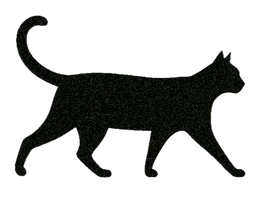
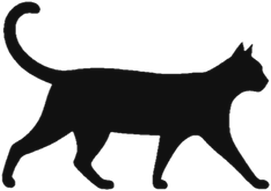
Silhouettes de chats refaites à partir des sources nettes (étape intermédiaire)
Claude-Session: https://claude.ai/code/session_01SBniN9QcJnc3Njnz1cARzX

diff --git a/es/interaction-ecrite.html b/es/interaction-ecrite.html
@@ -59,7 +59,7 @@
 <h1>Interacción escrita</h1>
 <p class="lead">Una destreza difícil de practicar en clase y valiosa en los cursos híbridos o 100 % en línea, donde la IAG ofrece un interlocutor siempre disponible.</p>
 </div>
-<div class="s-art" aria-hidden="true"><img src="../img/p3_90.webp" alt="" width="271" height="204" aria-hidden="true"></div></div></div>
+<div class="s-art" aria-hidden="true"><img src="../img/p3_90.webp" alt="" width="271" height="191" aria-hidden="true"></div></div></div>
 <div class="wrap layout">
 <aside class="toc" aria-label="En esta página"><details open><summary>En esta página</summary><h2>En esta página</h2><ol><li><a href="#cadre">Objetivo y qué hace el o la estudiante</a></li><li><a href="#principe">Principio</a></li><li><a href="#activites">Actividades</a></li><li><a href="#observe">Lo que observamos</a></li><li><a href="#limites">Límites</a></li><li><a href="#pistes">Líneas que exploramos</a></li><li><a href="#demo-defi">Demo y reto</a></li></ol>
 <div class="fold-all"><button type="button" class="btn small ghost" data-fold="open">Desplegar todo</button><button type="button" class="btn small ghost" data-fold="close">Plegar todo</button></div></details></aside>

diff --git a/en/interaction-ecrite.html b/en/interaction-ecrite.html
@@ -59,7 +59,7 @@
 <h1>Written interaction</h1>
 <p class="lead">A skill that is hard to practise in class, and valuable in blended or 100% online courses, where GenAI offers an always-available conversation partner.</p>
 </div>
-<div class="s-art" aria-hidden="true"><img src="../img/p3_90.webp" alt="" width="271" height="204" aria-hidden="true"></div></div></div>
+<div class="s-art" aria-hidden="true"><img src="../img/p3_90.webp" alt="" width="271" height="191" aria-hidden="true"></div></div></div>
 <div class="wrap layout">
 <aside class="toc" aria-label="On this page"><details open><summary>On this page</summary><h2>On this page</h2><ol><li><a href="#cadre">Objective and what the student does</a></li><li><a href="#principe">Principle</a></li><li><a href="#activites">Activities</a></li><li><a href="#observe">What we observe</a></li><li><a href="#limites">Limitations</a></li><li><a href="#pistes">Avenues we are exploring</a></li><li><a href="#demo-defi">Demo and challenge</a></li></ol>
 <div class="fold-all"><button type="button" class="btn small ghost" data-fold="open">Expand all</button><button type="button" class="btn small ghost" data-fold="close">Collapse all</button></div></details></aside>

diff --git a/interaction-ecrite.html b/interaction-ecrite.html
@@ -59,7 +59,7 @@
 <h1>Interaction écrite</h1>
 <p class="lead">Une compétence difficile à entraîner en classe, et précieuse dans les cours hybrides ou 100 % en ligne, où l’IAG offre un partenaire d’échange permanent.</p>
 </div>
-<div class="s-art" aria-hidden="true"><img src="img/p3_90.webp" alt="" width="271" height="204" aria-hidden="true"></div></div></div>
+<div class="s-art" aria-hidden="true"><img src="img/p3_90.webp" alt="" width="271" height="191" aria-hidden="true"></div></div></div>
 <div class="wrap layout">
 <aside class="toc" aria-label="Sur cette page"><details open><summary>Sur cette page</summary><h2>Sur cette page</h2><ol><li><a href="#cadre">Objectif et action de l’étudiant·e</a></li><li><a href="#principe">Principe</a></li><li><a href="#activites">Activités</a></li><li><a href="#observe">Ce qu’on observe</a></li><li><a href="#limites">Limites</a></li><li><a href="#pistes">Nos pistes</a></li><li><a href="#demo-defi">Démo et défi</a></li></ol>
 <div class="fold-all"><button type="button" class="btn small ghost" data-fold="open">Tout déplier</button><button type="button" class="btn small ghost" data-fold="close">Tout replier</button></div></details></aside>
